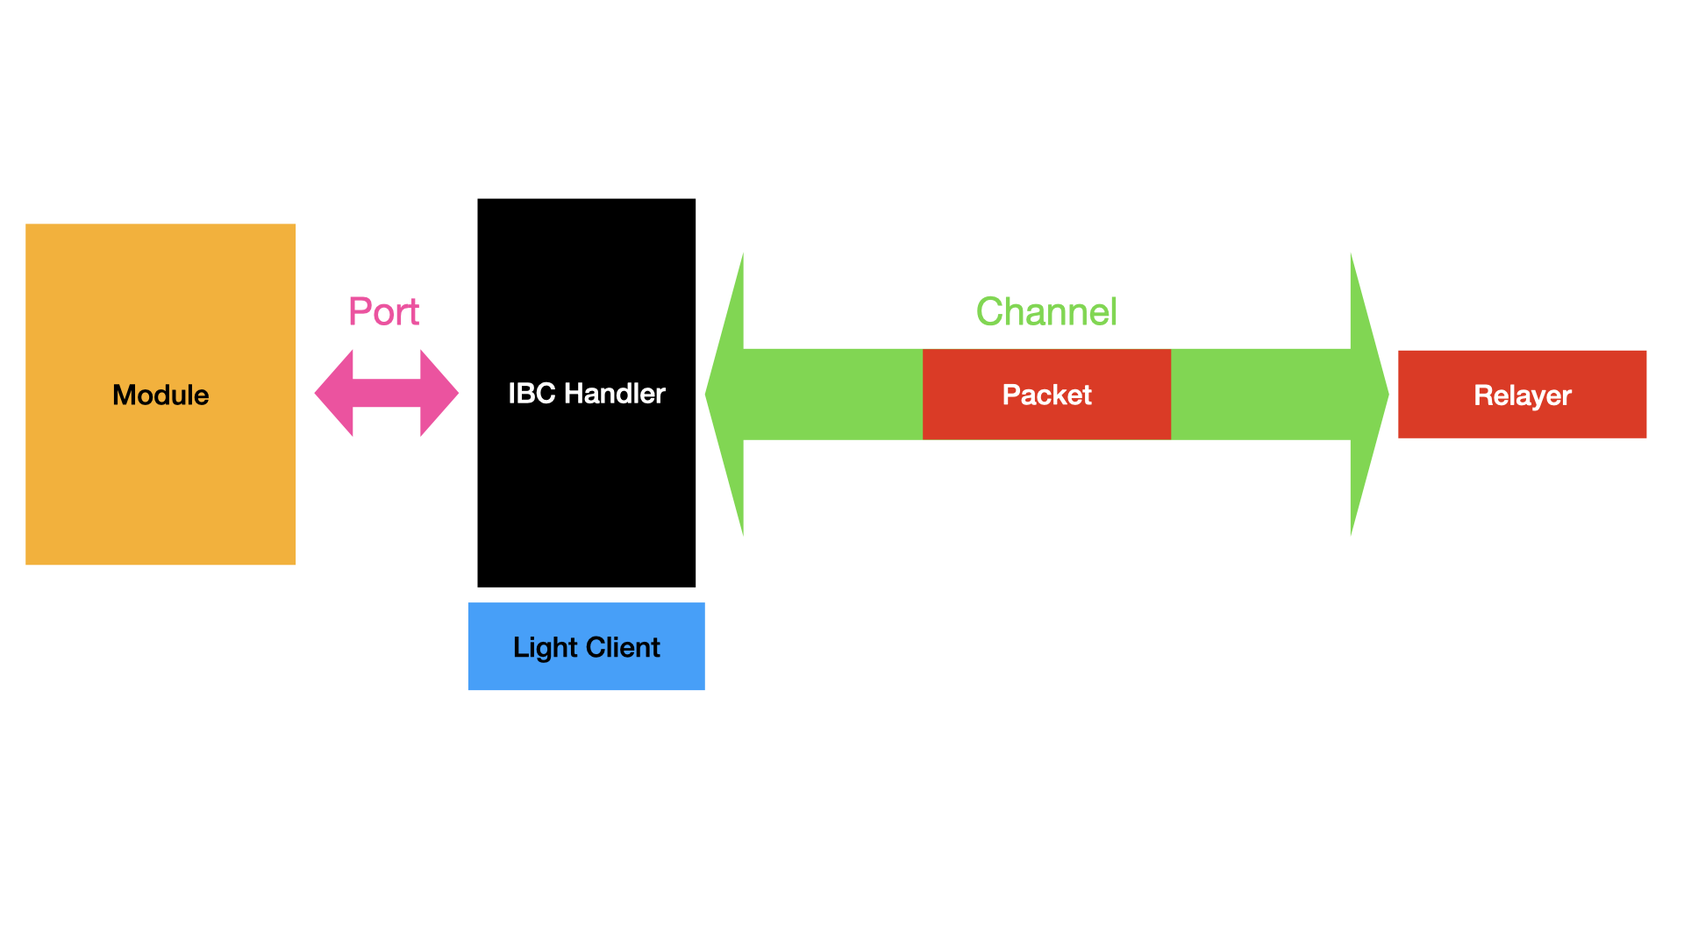
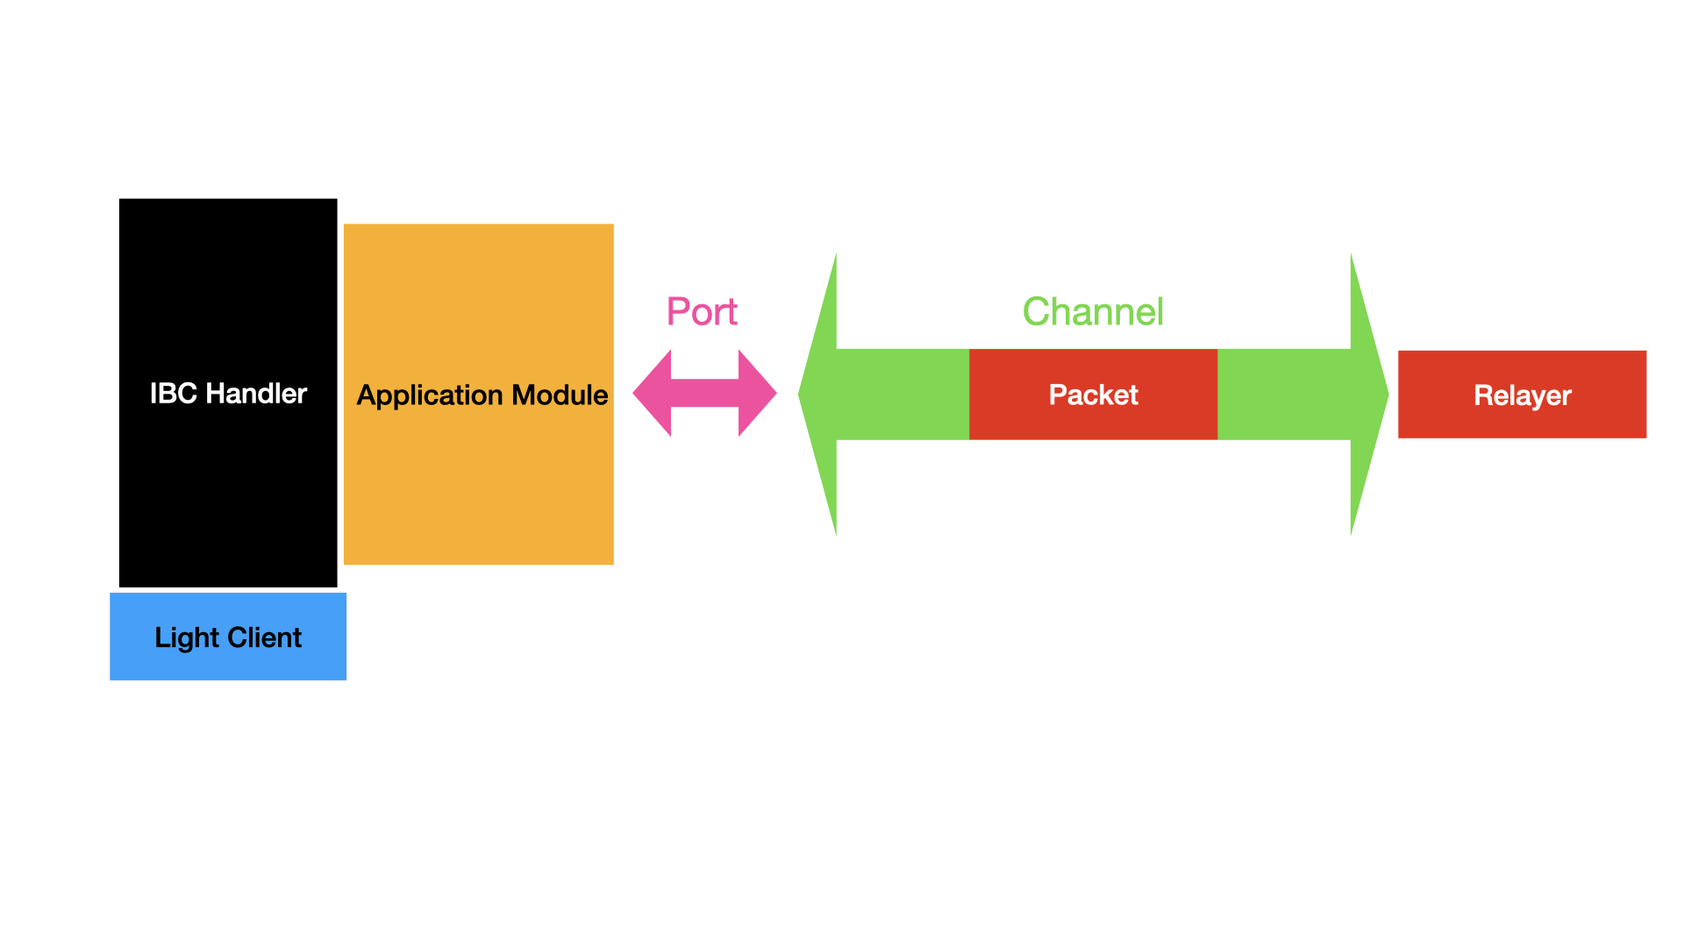
Included feedback for 2nd review

Changed region(s): [[0.0, 0.1833, 0.5, 0.7333], [0.5312, 0.3667, 0.75, 0.4889], [0.5625, 0.3056, 0.6875, 0.3667]]

diff --git a/academy/ibc/what-is-ibc.md b/academy/ibc/what-is-ibc.md
@@ -1,84 +1,170 @@
 ---
 title: "Inter-Blockchain Communication Introduction"
 order: 1
-description: IBC Protocol introduction
+description: Introduction to the IBC Protocol
 tag: fast-track
 ---
 
-# Introduction: What is IBC?
+# What is IBC?
 
-The [(Inter-Blockchain Communication (IBC)](https://ibcprotocol.org/) Protocol is _a protocol to handle authentication and transport of data between two blockchains_. IBC **requires a minimal set of functions**, specified in the [Interchain Standards (ICS)](https://github.com/cosmos/ibc/tree/master/spec/ics-001-ics-standard). Notice that those specifications do not limit the network topology or consensus algorithm, so IBC can be used with a wide range of blockchains or state machines. IBC is intended to work in execution environments where participants do not necessarily trust each other.
+The **[(Inter-Blockchain Communication (IBC)](https://ibcprotocol.org/) Protocol** is _a protocol to handle authentication and transport of data between two blockchains_. IBC **requires a minimal set of functions**, specified in the [Interchain Standards (ICS)](https://github.com/cosmos/ibc/tree/master/spec/ics-001-ics-standard). Notice that those specifications do not limit the network topology or consensus algorithm, so IBC can be used with a wide range of blockchains or state machines. The IBC protocol provides a permissionless way for relaying data packets between blockchains, unlike most trusted bridging technologies. The security of IBC reduces to the security of the participating chains.
 
-<HighlightBox type="info">
+IBC solves a widespread problem: cross-chain communication. This problem exists on public blockchains when exchanges wish to perform swaps. The problem arises early on in the case of application-specific blockchains where every asset is likely to emerge from its own purpose-built chain. Cross-chain communication is also a challenge in the world of private blockchains in cases where communication with a public chain or other private chains is desirable. There are already [IBC implementations for private blockchains such as Hyperledger Fabric and Corda](https://www.hyperledger.org/blog/2021/06/09/meet-yui-one-the-new-hyperledger-labs-projects-taking-on-cross-chain-and-off-chain-operations).
 
-IBC solves a widespread problem, namely cross-chain communication. This problem exists on public blockchains when exchanges wish to perform swaps. The problem emerges earlier in the case of application-specific blockchains where every asset is likely to emerge from its own purpose-built chain. Cross-chain communication is also a challenge in the world of private blockchains in cases where communication with a public chain or other private chains is desirable. There are already [IBC implementations for private blockchains such as Hyperledger Fabric and Corda](https://www.hyperledger.org/blog/2021/06/09/meet-yui-one-the-new-hyperledger-labs-projects-taking-on-cross-chain-and-off-chain-operations).
-
-</HighlighBox>
+Cross-chain communication in Cosmos enables parallelism and scaleability with transaction finality. This transaction finality solves well-known problems that plague other platforms: transaction costs, network capacity, and transaction confirmation finality.
 
 ## Internet of blockchains
 
-IBC is essential for application-specific blockchains like Cosmos. It offers a standard communication channel for applications on two different chains that need to communicate with each other.
+IBC is essential for application-specific blockchains like the ones in the Cosmos network. It offers a standard communication channel for applications on two different chains that need to communicate with each other.
 
-More details on the specifications will follow in the next section, but notice that IBC is not limited to Cosmos blockchains. Solutions can even be found for cases where some requirements are not initially met. An example of such cases is the use of IBC for Proof-of-Work (PoW) blockchains like Ethereum, as a PoW consensus algorithm which does not ensure finality. Ethereum-compatibility is enabled by creating a peg-zone where probabilistic finality is considered deterministic (i.e. irreversible) after a given threshold of block confirmations.
+Most Cosmos applications execute on their own purpose-built blockchain running their own validator set. These are the application-specific blockchains built with the Cosmos SDK. Applications on one chain may need to communicate with applications on another blockchain. For example, an application could accept tokens from another blockchain as a form of payment. Interoperability at this level calls for a method of exchanging data about the state or the transactions on another blockchain. While such bridges between blockchains can be built and do exist, they are generally constructed ad-hoc. IBC provides all Cosmos SDK applications with a common protocol and framework for implementing standardized inter-blockchain communication.
+
+IBC is an end-to-end, connection-oriented, stateful protocol for reliable, ordered, and authenticated communication between heterogeneous blockchains arranged in an unknown and dynamic topology. It is possible by specifying a set of data structures, abstractions, and semantics that can be implemented by any distributed ledger provided they satisfy a small set of requirements.
+
+<HighlightBox type="info">
+
+More details on the specifications will follow in the next section, but notice that IBC is not limited to Cosmos blockchains. Solutions can even be found for cases where some requirements are not initially met. An example of such a case is the use of IBC for Proof-of-Work (PoW) blockchains like Ethereum. As a PoW consensus algorithm does not ensure finality, one of the main requirements to use IBC is not met. Still, Ethereum-compatibility is enabled by creating a peg-zone where probabilistic finality is considered deterministic (irreversible) after a given threshold of block confirmations.
+
+</HighlightBox>
+
+Although application-specific blockchains offer superior scalability compared to general-purpose blockchain platforms, smart contract development for general-purpose chains and generic virtual machines (VMs) like in Ethereum offer their own benefits. IBC provides a method of incorporating the strengths of general-purpose and application-specific blockchains into unified overall designs. For example, it allows a Cosmos chain tailored towards performance and scalability to use funds that originate on Ethereum and possibly record events in a Corda distributed ledger or, in the reverse, a Corda ledger initiating the transfer of underlying assets defined in Cosmos or Ethereum.
 
 ![Internet of blockchains](images/internetofchains.png)
 
-Although application-specific blockchains offer superior scalability compared to general-purpose blockchain platforms, smart contract development for general-purpose chains and generic virtual machines (VMs), e.g. Ethereum, offer their own benefits. IBC provides a method of incorporating the strengths of general-purpose and application-specific blockchains into unified overall designs. It allows, for example, a Cosmos chain tailored towards performance and scaleability to use funds that originate on Ethereum and possibly record events in a Corda distributed ledger or, in the reverse, a Corda ledger initiating the transfer of underlying assets defined in Cosmos or Ethereum.
+With cross-chain communication via IBC, a decentralized network of independent and interoperable chains exchanging information and assets is possible. This "internet of blockchains" brings the promise of increased and seamless scalability. In Cosmos, the vision being implemented is to have a universe of independent chains that are all connected using peg-zones as bridges between the Cosmos network and chains outside of it and connecting all chains via hubs. All of these make up the internet of blockchains.
 
-New concepts such as Interchain Accounts will continue to further increase adoption times and the possibilities IBC offers: a blockchain will be able to control an account on another blockchain with Interchain Accounts.
+## Interchain Standards (ICS)
 
-## Architecture
+There are two categories (aside from __meta__) that define ICS in the [general ICS definition](https://github.com/cosmos/ibc/blob/master/spec/ics-001-ics-standard/README.md):
 
-Assume we have two chains: **chain *A* and chain *B***. Both will implement the ICS for IBC.
+* **IBC/TAO:** a standard defining an inter-blockchain communication system core transport, authentication, and ordering-layer protocol.
+* **IBC/APP:** a standard defining an inter-blockchain communication system application-layer protocol.
 
-![IBC overview](images/ibcoverview.png)
+Assume we have two chains: **chain *A* and chain *B***. Both will implement the ICS/TAO for IBC.
 
-Notice three crucial elements in the diagram above:
+![IBC overview - two connected chains](images/ibcoverview.png)
 
-* The chains use relayers to communicate;
-* Chains can use different relayers to send messages to each other;
+Notice three crucial elements in the diagram:
+
+* The chains depend on relayers to communicate.
+* Many relayers can serve one or more channels to send messages between the chains.
 * Each side of the relay uses the light client of the other chain to quickly verify incoming messages.
 
-In fact, the relayer listens and picks up messages from a channel to forward them. Both chains implement IBC and first initiate a connection to then establish channels. Notice that relayers ensure that both chains know that a package has been transmitted.
+### IBC/TAO - transport layer
 
-![IBC module](images/ibcmodule.png)
+The transport layer (TAO) provides the necessary infrastructure to establish secure connections and authenticate data packets between chains. The application layer defines exactly how data packets should be packaged and interpreted by the sending and receiving chains.
 
-The interface exposed by the standard IBC implementation is referred to as the [IBC handler](https://github.com/cosmos/ibc/tree/master/spec/core/ics-025-handler-interface). Modules can use the IBC handler for client, connection, and channel lifecycle management, and to send and receive packets.
+The great promise of IBC is the possibility of optimizing not only on the transport layer but also on the layers above it: a powerful and secure but ultimately generic and permissionless transport layer, which supports any number of diverse and innovative applications from asset transfers and oracle data provision to decentralized identities and cross-chain, synchronous transaction validation built on top of it.
+
+![The transport layer](images/tao.png)
+
+In the diagram, the relationship between the ICS definitions in the category TAO are illustrated - the arrows illustrating the requirements.
+
+Simply put, the transport layer includes:
+
+* Clients - ICS [2](https://github.com/cosmos/ibc/tree/master/spec/core/ics-002-client-semantics), [6](https://github.com/cosmos/ibc/tree/master/spec/client/ics-006-solo-machine-client), [7](https://github.com/cosmos/ibc/tree/master/spec/client/ics-007-tendermint-client), [5](https://github.com/cosmos/ibc/tree/master/spec/client/ics-008-wasm-client), [9](https://github.com/cosmos/ibc/tree/master/spec/client/ics-009-loopback-client), [10](https://github.com/cosmos/ibc/tree/master/spec/client/ics-010-grandpa-client)
+  In IBC, the algorithm utilized to verify the consensus transcript and state sub-components of another machine is referred to as a "validity predicate". Pairing the validity predicate with a state the verifier assumes to be correct forms the _light client_ (often shortened to _client_). In the IBC protocol, an actor, which may be an end-user, an off-chain process, or a machine, needs to be able to verify updates to the state of another machine to which the other machine's consensus algorithm has agreed to, and reject any possible updates which the other machine's consensus algorithm has not agreed to. A light client is an algorithm with which a machine can do so. The standard formalizes the light client model and requirements in a way that the IBC protocol can easily integrate with new machines running new consensus algorithms - as long as the associated light client algorithms fulfill the listed requirements.
+* Connection semantics - [ICS 3](https://github.com/cosmos/ibc/tree/master/spec/core/ics-003-connection-semantics)
+  Connections encapsulate two `ConnectionEnd` objects on two separate blockchains. Each `ConnectionEnd` is associated with a light client of the other blockchain - for example, the counterparty blockchain. The connection handshake is responsible for verifying that the light clients on each chain are the correct ones for their respective counterparties. Connections, once established, are responsible for facilitating all cross-chain verifications of an IBC state. A connection can be associated with any number of channels. 
+  How is a connection established with a handshake?
+
+  ![Connection state](images/connectionstate.png)
+
+* Channel semantics - [ICS 4](https://github.com/cosmos/ibc/tree/master/spec/core/ics-004-channel-and-packet-semantics)
+  A module on one blockchain can communicate with other modules on other blockchains by sending, receiving, and acknowledging packets through channels that are uniquely identified by the (`channelID`, `portID`) tuple. Establishing a channel with a handshake: 
+
+  ![Channel state](images/channelsstate.png)
+
+* Port allocation - [ICS 5](https://github.com/cosmos/ibc/tree/master/spec/core/ics-005-port-allocation)
+  An IBC module can bind to any number of ports. Each port must be identified by a unique `portID`. Since IBC is designed to be secure with mutually distrusted modules operating on the same ledger, binding a port returns a dynamic object capability. To take action on a particular port (for example, an open channel with its portID), a module must provide the dynamic object capability to the IBC handler. This requirement prevents a malicious module from opening channels with ports it does not own. Thus, IBC modules are responsible for claiming the capability that is returned on `BindPort`.
+  
+  ![Dataflow between clients](images/dataflow.png)
+
+* Vector commitments -[ICS 23](https://github.com/cosmos/ibc/tree/master/spec/core/ics-023-vector-commitments)
+  The proof format that all implementations must be able to produce and verify.
+* Host requirements - [ICS 24](https://github.com/cosmos/ibc/tree/master/spec/core/ics-024-host-requirements)
+  The paths that all IBC implementations must use to commit IBC messages.
+* Relayer - [ICS 18](https://github.com/cosmos/ibc/tree/master/spec/relayer/ics-018-relayer-algorithms)
+  Relayer algorithms are the "physical" connection layer of IBC — off-chain processes responsible for relaying data between two chains running the IBC protocol by scanning the state of each chain, constructing appropriate datagrams, and executing them on the opposite chain as is allowed by the protocol.
+
+While this background information is useful, IBC modules do not need to interact at all with these lower-level abstractions.
+
+### IBC/APP - application layer
+
+IBC also offers ICS definitions for applications:
+
+![Available ICS definitions for applications](images/app.png)
+
+* Fungible token transfer - [ICS 20](https://github.com/cosmos/ibc/tree/master/spec/app/ics-020-fungible-token-transfer)
+  This logic constitutes a "fungible token transfer bridge module" interfacing between the IBC routing module and an existing asset tracking module on the host state machine.
+* Interchain Accounts - [ICS 27](https://github.com/cosmos/ibc/tree/master/spec/app/ics-027-interchain-accounts)
+  ICS-27 Interchain Accounts outlines a cross-chain account management protocol built on IBC. ICS-27-enabled chains can programmatically create accounts on other ICS-27-enabled chains and control these accounts via IBC transactions, instead of having to sign with a private key. Interchain Accounts contain all of the capabilities of a normal account (i.e. stake, send, vote) but instead are managed by a separate chain via IBC in a way such that the owner account on the controller chain retains full control over any interchain account(s) it registers on host chain(s).
+* General relayer incentivization mechanism - [ICS 29](https://github.com/cosmos/ibc/tree/master/spec/app/ics-029-fee-payment)
+  Incentivize relayers for scaling.
+* IBC application middleware - [ICS 30](https://github.com/cosmos/ibc/tree/master/spec/app/ics-030-middleware)
+  The middleware allows developers to define the extensions as separate modules that can wrap over the base application.
+
+<HighlightBox type="info">
+
+This list can be and will be extended with time. New concepts such as Interchain Accounts will continue to further decrease adoption times and provide new possibilities to what IBC offers - a blockchain can control an account on another blockchain with Interchain Accounts.
+
+</HighlightBox>
+
+## Custom application
+
+The interface exposed by the standard IBC implementation is referred to as the **[IBC handler](https://github.com/cosmos/ibc/tree/master/spec/core/ics-025-handler-interface)**. Modules can use the IBC handler for client, connection, and channel lifecycle management, and to send and receive packets.
+
+![Packet flow](images/packetflow.png)
+
+A packet is first received by the handler of the application module before getting passed down to callbacks on the IBC core handler. In addition, an acknowledgment is sent back to the packet sender.
 
 ![IBC handler](images/ibchandler.png)
 
-For each connection between two blockchains, different channels can be established. **Channels** provide the ordered exactly-once delivery of packets and handle module permissioning through **ports**. A **module** is bound to a port and channels are end-to-end between two ports. The relevant abstraction layer for IBC application developers is that of channels and ports. IBC modules can bind to any number of ports.
+For each connection between two blockchains, different channels can be established. **Channels** provide the (possibly ordered) exactly-once delivery of packets and handle module permissioning through **ports**. A **module** is bound to a port, and channels are end-to-end between two ports.
 
-IBC clients are **light clients** that are identified by a unique client ID. IBC clients track the consensus state of other blockchains and the proof specs of those blockchains required to properly verify proofs against the client's consensus state. A client can be associated with any number of connections to the counterparty chain.
+## Implementations
 
-## Implemantations
-
-IBC is not just a specification on a whitepaper, it is used for hundreds of thousands of transactions per day across various chains.
+IBC is not just a specification in a whitepaper, it is used for hundreds of thousands of transactions per day across various chains.
 
 <HighlightBox type="tip">
 
-Have a look at the [Map of Zones](https://mapofzones.com/?testnet=false&period=24&tableOrderBy=totalIbcTxs&tableOrderSort=desc) to get an overview of blockchains with IBC implementation. In it, you can see some blockchains like the Cosmos Hub or Osmosis connected to a lot of other blockchains - they are used by many applications.
+Have a look at the [Map of Zones](https://mapofzones.com/?testnet=false&period=24&tableOrderBy=totalIbcTxs&tableOrderSort=desc) to get an overview of blockchains with IBC implementation. In it, you can find blockchains like the Cosmos Hub or Osmosis and see how they are connected to a lot of other blockchains - they are used by many applications.
 
 </HighlightBox>
 
 Some **IBC-related implementations** to highlight are:
 
-* **The [IBC module](https://github.com/cosmos/ibc-go):** The implementation of the IBC protocol for the Cosmos SDK;
-* **[Hermes](https://hermes.informal.systems/relayer.html):** A widely-used relayer written in Rust;
-* **The [Gravity Bridge](https://github.com/cosmos/gravity-bridge):** A great example of a peg-zone, which allows the transfer of ERC-20 tokens to Cosmos-based blockchains and back.
+* **[IBC module](https://github.com/cosmos/ibc-go).** The implementation of the IBC protocol for the Cosmos SDK.
+* **[Hermes](https://hermes.informal.systems/relayer.html).** A widely-used relayer written in Rust.
+* **[Osmosis](https://github.com/osmosis-labs/osmosis).** A decentralized exchange, also called automated market maker, for Cosmos.
+* **[Gravity Bridge](https://github.com/cosmos/gravity-bridge).** An example that allows the transfer of ERC-20 tokens to Cosmos-based blockchains and back.
 
 Some **IBC clients** described in the ICS and implemented in the IBC module are:
 
-* **`solomachine` light client:** Devices such as phones, browsers, or laptops;
-* **Tendermint light client:** The default for Cosmos SDK chains;
-* **Localhost (loopback) client:** Useful for testing, simulation, and relaying packets to modules on the same application.
+* **`solomachine` light client.** Devices such as phones, browsers, or laptops.
+* **Tendermint light client.** The default for Cosmos SDK chains.
+
+<HighlightBox type="tip">
+
+The status of the light client development is listed on the [IBC website](https://ibcprotocol.org/lightClients/).
+
+You can find documentation on the supported IBC clients here:
+
+* [Cosmos SDK documentation: `solomachine` light client](https://github.com/cosmos/ibc-go/blob/main/modules/light-clients/06-solomachine)
+* [Cosmos SDK documentation: Tendermint light client](https://github.com/cosmos/ibc-go/blob/main/modules/light-clients/07-tendermint)
+
+</HighlightBox>
 
 ## Your path
 
-As mentioned before, IBC is such a generic protocol that it can be used to connect all kinds of blockchains. Still, there are different paths that create different workloads depending on the reference implementations available.
+As mentioned before, IBC is such a generic protocol that it can be used to connect all kinds of blockchains. When it comes to developing a blockchain (application), different paths create different workloads depending on the reference implementations available and your design choices.
 
 ![Your IBC path](images/path.png)
 
-The fastest way to use IBC is to rely on the Tendermint light client and Cosmos reference implementations for IBC. Notice that if the IBC protocol is implemented and you are at the end of a path, you can use any relayer to connect two blockchains.
+The most straightforward way to use IBC is to build a chain with the Cosmos SDK, which already includes the IBC module - as you can see when taking a look at the [IBC-Go repository](https://github.com/cosmos/ibc-go). The IBC module supports an out-of-the-box Tendermint light client. Other implementations are possible but may require further development of the necessary components. Once IBC is implemented, any relayer can start relaying between the chains.
 
-ICS also offers specifications for the application layer, e.g. for the [transfer of fungible tokens](https://github.com/cosmos/ibc/tree/master/spec/app/ics-020-fungible-token-transfer) between two modules on separate chains, which is also implemented in the [reference IBC implementation](https://github.com/cosmos/ibc-go/tree/main/modules/apps/transfer). In addition, you can find an [Interchain Accounts](https://github.com/cosmos/ibc-go/tree/main/modules/apps/27-interchain-accounts) implementation, which can be extremely useful to develop your application logic if no ISC regarding the use case already exists.
+Remember ICS also offers specifications for the application layer, for example, for the [transfer of fungible tokens](https://github.com/cosmos/ibc/tree/master/spec/app/ics-020-fungible-token-transfer) between two modules on separate chains, which is also implemented in the [reference IBC implementation](https://github.com/cosmos/ibc-go/tree/main/modules/apps/transfer). In addition, there is also an [Interchain Accounts implementation](https://github.com/cosmos/ibc-go/tree/main/modules/apps/27-interchain-accounts), which can be extremely useful to develop your application logic if no ISC regarding the use case already exists.
+
+## Next up
+
+On your way to becoming a Cosmos SDK developer expert in IBC? In the next section, you can dive even deeper into IBC and discover information on how to develop with IBC.
